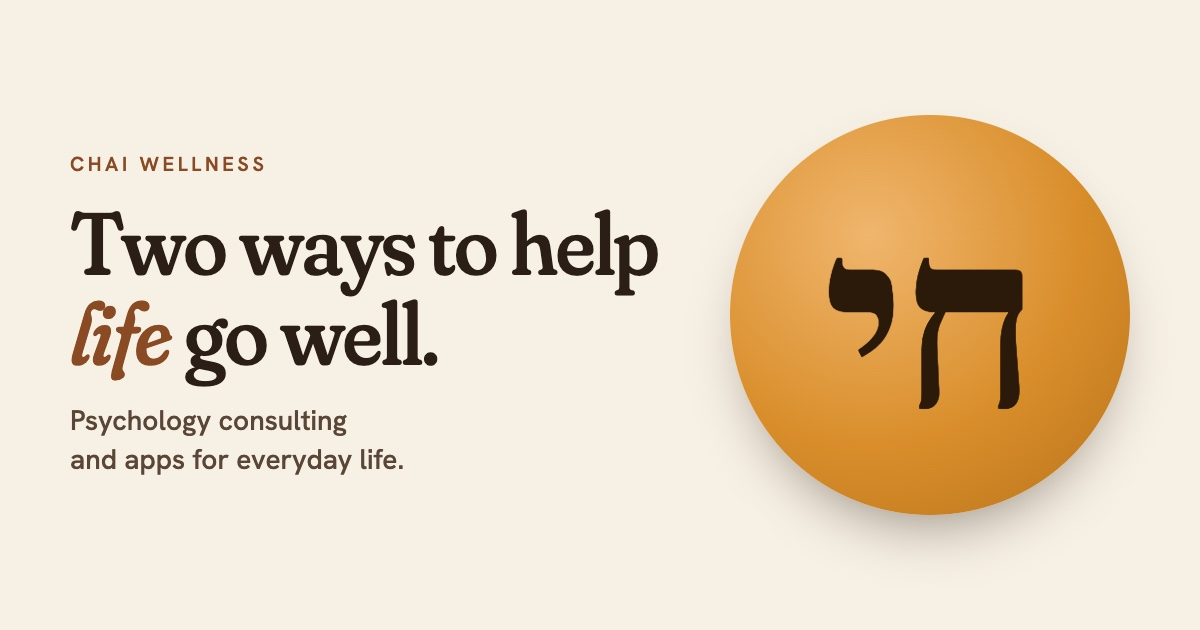
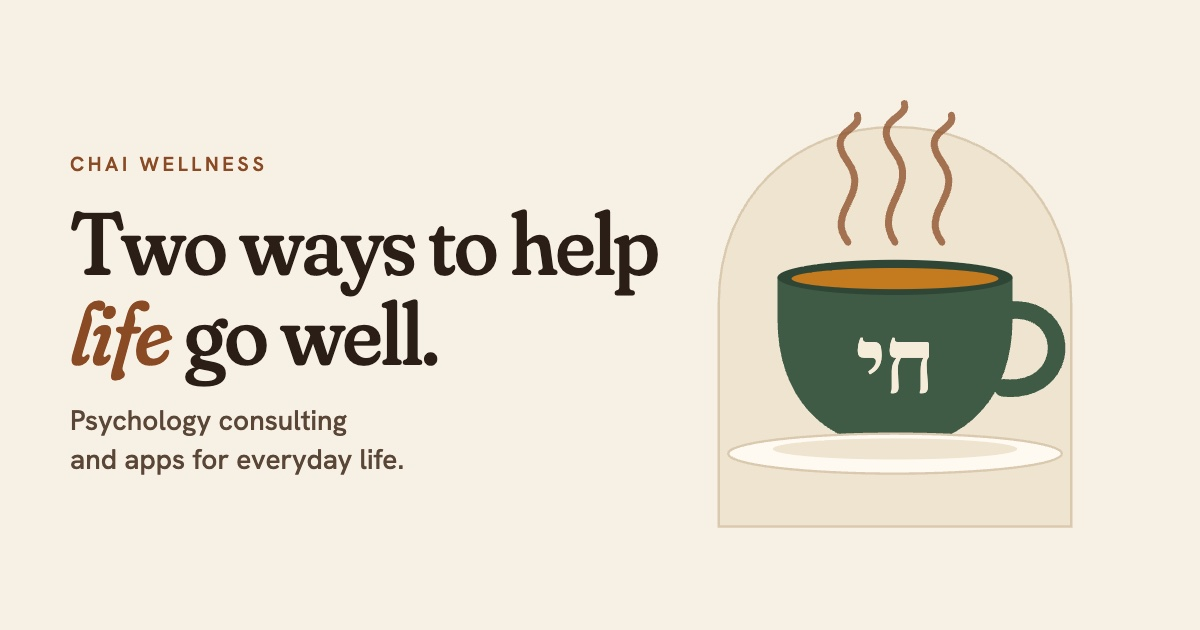
Replace hero ornament with a flat cup of chai

Changed region(s): [[0.5858, 0.1508, 0.9558, 0.8746]]

diff --git a/scripts/og.html b/scripts/og.html
@@ -1,8 +1,19 @@
-<!doctype html><meta charset=utf-8><link rel=stylesheet href="https://fonts.googleapis.com/css2?family=Fraunces:ital,opsz,wght,SOFT@0,9..144,500,100;1,9..144,500,100&family=Frank+Ruhl+Libre:wght@700&family=Hanken+Grotesk:wght@500;600&display=swap">
-<style>body{margin:0;width:1200px;height:630px;background:#f7f0e4;font-family:'Hanken Grotesk';color:#2b1e16;display:flex;align-items:center;position:relative;overflow:hidden}
-.t{padding:0 70px;width:700px}.e{font:600 20px 'Hanken Grotesk';letter-spacing:.18em;text-transform:uppercase;color:#8a4b24;margin-bottom:22px}
+<!doctype html><meta charset=utf-8><link rel=stylesheet href="https://fonts.googleapis.com/css2?family=Fraunces:ital,opsz,wght,SOFT@0,9..144,500,100;1,9..144,500,100&family=Frank+Ruhl+Libre:wght@700&family=Hanken+Grotesk:wght@500;600&display=swap"><style>body{margin:0;width:1200px;height:630px;background:#f7f0e4;font-family:'Hanken Grotesk';color:#2b1e16;display:flex;align-items:center;position:relative;overflow:hidden}
+.t{padding:0 70px;width:680px}.e{font:600 20px 'Hanken Grotesk';letter-spacing:.18em;text-transform:uppercase;color:#8a4b24;margin-bottom:22px}
 h1{font:500 88px/1.02 Fraunces;letter-spacing:-.02em;margin:0 0 22px;font-variation-settings:"SOFT" 60}h1 em{color:#8a4b24;font-style:italic}
 p{font-size:28px;line-height:1.4;color:#5a4637;margin:0}
-.d{position:absolute;right:70px;top:115px;width:400px;height:400px;border-radius:50%;background:radial-gradient(circle at 35% 30%,#f0b66d,#d98e2b 55%,#b8721a);box-shadow:0 30px 60px -25px rgba(43,30,22,.5)}
-.g{position:absolute;right:70px;top:115px;width:400px;height:400px;display:grid;place-items:center;font:700 250px 'Frank Ruhl Libre';color:#2b1a0a;padding-top:30px;box-sizing:border-box}</style>
-<div class=t><div class=e>Chai Wellness</div><h1>Two ways to help <em>life</em> go well.</h1><p>Psychology consulting<br>and apps for everyday life.</p></div><div class=d></div><div class=g>חי</div>
+svg{position:absolute;right:70px;top:80px;width:470px;height:470px}
+.arch-bg{fill:#efe4d0;stroke:#d9c9ae;stroke-width:2}.cup-body{fill:#3f5b45}.cup-rim{fill:#2f4636}.tea{fill:#c47a1f}.handle{fill:none;stroke:#3f5b45;stroke-width:15;stroke-linecap:round}
+.cup-he{font:700 78px 'Frank Ruhl Libre';fill:#f6ecda}.saucer{fill:#fffaf1;stroke:#d9c9ae;stroke-width:2}.saucer-in{fill:#efe4d0}
+.steam path{fill:none;stroke:#8a4b24;stroke-width:6;stroke-linecap:round;opacity:.75}</style>
+<div class=t><div class=e>Chai Wellness</div><h1>Two ways to help <em>life</em> go well.</h1><p>Psychology consulting<br>and apps for everyday life.</p></div><svg viewBox="0 0 400 400" aria-hidden="true">
+<path class="arch-bg" d="M50 380 V190 C50 100 115 40 200 40 S350 100 350 190 V380 Z"/>
+<g class="steam"><path d="M160 138 C140 112 180 98 160 70 S172 44 168 30"/><path d="M200 138 C180 108 222 92 200 62 S212 34 208 20"/><path d="M240 138 C220 112 260 98 240 70 S252 44 248 30"/></g>
+<path class="handle" d="M296 196 C352 190 352 268 292 262"/>
+<path class="cup-body" d="M100 168 H300 V204 C300 268 262 312 200 312 C138 312 100 268 100 204 Z"/>
+<ellipse class="cup-rim" cx="200" cy="168" rx="100" ry="15"/>
+<ellipse class="tea" cx="200" cy="169" rx="88" ry="9"/>
+<text class="cup-he" x="200" y="266" text-anchor="middle" lang="he">חי</text>
+<ellipse class="saucer" cx="200" cy="318" rx="142" ry="17"/>
+<ellipse class="saucer-in" cx="200" cy="314" rx="104" ry="9"/>
+</svg>

diff --git a/style.css b/style.css
@@ -95,17 +95,23 @@ section { padding: clamp(56px, 9vw, 110px) 0; }
 .hero { padding-top: clamp(48px, 7vw, 96px); overflow: hidden; }
 .hero-grid { display: grid; grid-template-columns: 1.15fr .85fr; gap: clamp(24px, 5vw, 72px); align-items: center; }
 .hero h1 { max-width: 11em; }
-.cup { position: relative; aspect-ratio: 1; max-width: 440px; margin-inline: auto; width: 100%; display: grid; place-items: center; }
-.cup .disc { position: absolute; inset: 8%; border-radius: 50%; background: radial-gradient(circle at 35% 30%, #f0b66d, var(--saffron) 55%, #b8721a); box-shadow: var(--shadow), inset 0 -18px 40px rgba(90,40,0,.25); }
-.cup .glyph { position: relative; font-size: clamp(7rem, 17vw, 12rem); line-height: 1; color: #2b1a0a; transform: translateY(8%); direction: rtl; }
-.cup .eighteen { position: absolute; right: 4%; bottom: 8%; background: var(--card); color: var(--ink); border: 1px solid var(--line); border-radius: 999px; padding: 8px 16px; font-size: .85rem; font-weight: 600; box-shadow: var(--shadow); }
-.steam { position: absolute; left: 50%; top: -16%; width: 44%; transform: translateX(-50%); height: 30%; overflow: visible; }
-.steam path { fill: none; stroke: var(--chai); stroke-width: 3.5; stroke-linecap: round; opacity: .55; stroke-dasharray: 90; animation: rise 4.5s ease-in-out infinite; }
-.steam path:nth-child(2) { animation-delay: -1.5s; opacity: .4; }
-.steam path:nth-child(3) { animation-delay: -3s; opacity: .3; }
+.cup { position: relative; max-width: 440px; margin-inline: auto; width: 100%; }
+.cup svg { width: 100%; height: auto; display: block; overflow: visible; }
+.arch-bg { fill: var(--paper-2); stroke: var(--line); stroke-width: 2; }
+.cup-body { fill: #3f5b45; }
+.cup-rim { fill: #2f4636; }
+.tea { fill: #c47a1f; }
+.handle { fill: none; stroke: #3f5b45; stroke-width: 15; stroke-linecap: round; }
+.cup-he { font: 700 78px "Frank Ruhl Libre", serif; fill: #f6ecda; direction: rtl; }
+.saucer { fill: var(--card); stroke: var(--line); stroke-width: 2; }
+.saucer-in { fill: var(--paper-2); }
+.steam path { fill: none; stroke: var(--chai); stroke-width: 6; stroke-linecap: round; opacity: .75; stroke-dasharray: 90; animation: rise 4.5s ease-in-out infinite; }
+.steam path:nth-child(2) { animation-delay: -1.5s; }
+.steam path:nth-child(3) { animation-delay: -3s; }
+.cup .eighteen { position: absolute; right: 2%; bottom: 4%; background: var(--card); color: var(--ink); border: 1px solid var(--line); border-radius: 999px; padding: 8px 16px; font-size: .85rem; font-weight: 600; box-shadow: var(--shadow); }
 @keyframes rise { 0% { stroke-dashoffset: 90; } 50% { stroke-dashoffset: 0; } 100% { stroke-dashoffset: -90; } }
-@media (prefers-reduced-motion: reduce) { .steam path { animation: none; stroke-dashoffset: 0; } html { scroll-behavior: auto; } .btn { transition: none; } }
-@media (max-width: 860px) { .hero-grid { grid-template-columns: 1fr; } .cup { max-width: 320px; order: -1; } }
+@media (prefers-reduced-motion: reduce) { .steam path { animation: none; stroke-dasharray: none; } html { scroll-behavior: auto; } .btn { transition: none; } }
+@media (max-width: 860px) { .hero-grid { grid-template-columns: 1fr; } .cup { max-width: 300px; order: -1; } }
 
 /* ---------- the two doors ---------- */
 .doors { display: grid; grid-template-columns: 1fr 1fr; gap: 24px; }

diff --git a/index.html b/index.html
@@ -32,10 +32,18 @@
 <p class="lede rise d2">Chai Wellness is a small company with two halves. Dr. Emily Mouilso offers psychology training and consultation to clinicians and organizations. Eric Linder makes apps that take a little weight off everyday life.</p>
 <div class="btn-row rise d3"><a class="btn" href="consulting.html">Psychology consulting</a><a class="btn ghost" href="apps.html">See the apps</a></div>
 </div>
-<div class="cup rise d2" role="img" aria-label="The Hebrew word chai, meaning life, on a saffron disc with rising steam">
-<svg class="steam" viewBox="0 0 120 90" aria-hidden="true"><path d="M30 88 C 10 66, 50 52, 30 28 S 40 4, 38 0"/><path d="M62 88 C 42 66, 82 50, 62 26 S 72 2, 70 0"/><path d="M94 88 C 74 68, 112 54, 94 30 S 102 6, 100 0"/></svg>
-<div class="disc"></div>
-<span class="glyph he" lang="he" dir="rtl">חי</span>
+<div class="cup rise d2" role="img" aria-label="A cup of chai on a saucer with steam rising, with the Hebrew word chai, meaning life, printed on the cup">
+<svg viewBox="0 0 400 400" aria-hidden="true">
+<path class="arch-bg" d="M50 380 V190 C50 100 115 40 200 40 S350 100 350 190 V380 Z"/>
+<g class="steam"><path d="M160 138 C140 112 180 98 160 70 S172 44 168 30"/><path d="M200 138 C180 108 222 92 200 62 S212 34 208 20"/><path d="M240 138 C220 112 260 98 240 70 S252 44 248 30"/></g>
+<path class="handle" d="M296 196 C352 190 352 268 292 262"/>
+<path class="cup-body" d="M100 168 H300 V204 C300 268 262 312 200 312 C138 312 100 268 100 204 Z"/>
+<ellipse class="cup-rim" cx="200" cy="168" rx="100" ry="15"/>
+<ellipse class="tea" cx="200" cy="169" rx="88" ry="9"/>
+<text class="cup-he" x="200" y="266" text-anchor="middle" lang="he">חי</text>
+<ellipse class="saucer" cx="200" cy="318" rx="142" ry="17"/>
+<ellipse class="saucer-in" cx="200" cy="314" rx="104" ry="9"/>
+</svg>
 <span class="eighteen">Chai means life, and 18</span>
 </div>
 </div></section>

diff --git a/scripts/build.py b/scripts/build.py
@@ -113,10 +113,18 @@ def index():
 <p class="lede rise d2">Chai Wellness is a small company with two halves. Dr. Emily Mouilso offers psychology training and consultation to clinicians and organizations. Eric Linder makes apps that take a little weight off everyday life.</p>
 <div class="btn-row rise d3"><a class="btn" href="consulting.html">Psychology consulting</a><a class="btn ghost" href="apps.html">See the apps</a></div>
 </div>
-<div class="cup rise d2" role="img" aria-label="The Hebrew word chai, meaning life, on a saffron disc with rising steam">
-<svg class="steam" viewBox="0 0 120 90" aria-hidden="true"><path d="M30 88 C 10 66, 50 52, 30 28 S 40 4, 38 0"/><path d="M62 88 C 42 66, 82 50, 62 26 S 72 2, 70 0"/><path d="M94 88 C 74 68, 112 54, 94 30 S 102 6, 100 0"/></svg>
-<div class="disc"></div>
-<span class="glyph he" lang="he" dir="rtl">חי</span>
+<div class="cup rise d2" role="img" aria-label="A cup of chai on a saucer with steam rising, with the Hebrew word chai, meaning life, printed on the cup">
+<svg viewBox="0 0 400 400" aria-hidden="true">
+<path class="arch-bg" d="M50 380 V190 C50 100 115 40 200 40 S350 100 350 190 V380 Z"/>
+<g class="steam"><path d="M160 138 C140 112 180 98 160 70 S172 44 168 30"/><path d="M200 138 C180 108 222 92 200 62 S212 34 208 20"/><path d="M240 138 C220 112 260 98 240 70 S252 44 248 30"/></g>
+<path class="handle" d="M296 196 C352 190 352 268 292 262"/>
+<path class="cup-body" d="M100 168 H300 V204 C300 268 262 312 200 312 C138 312 100 268 100 204 Z"/>
+<ellipse class="cup-rim" cx="200" cy="168" rx="100" ry="15"/>
+<ellipse class="tea" cx="200" cy="169" rx="88" ry="9"/>
+<text class="cup-he" x="200" y="266" text-anchor="middle" lang="he">חי</text>
+<ellipse class="saucer" cx="200" cy="318" rx="142" ry="17"/>
+<ellipse class="saucer-in" cx="200" cy="314" rx="104" ry="9"/>
+</svg>
 <span class="eighteen">Chai means life, and 18</span>
 </div>
 </div></section>
